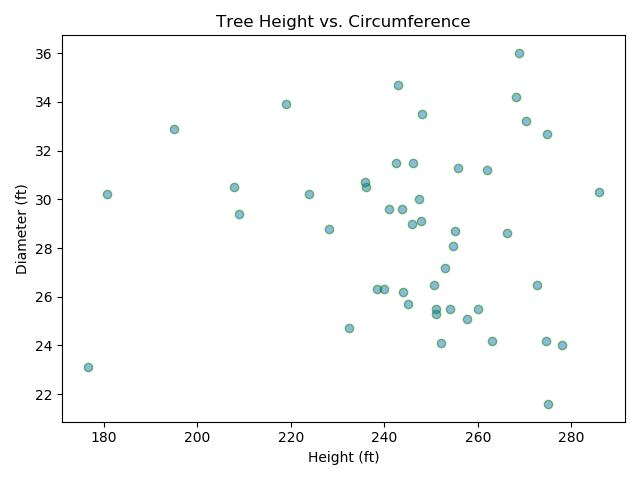
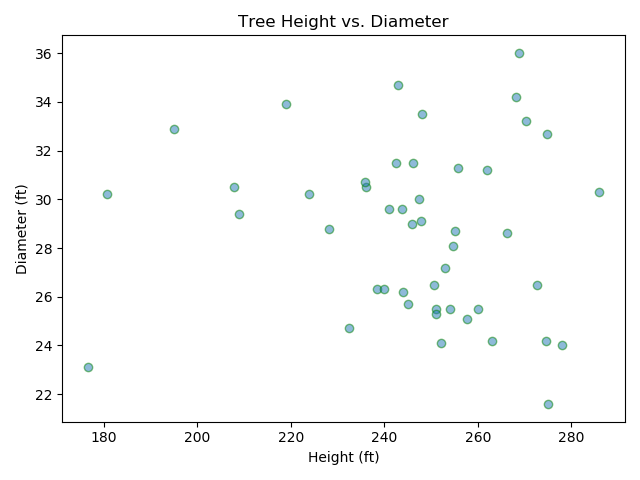
Fixed Tree Plots

Changed region(s): [[0.3438, 0.0312, 0.75, 0.0625]]

diff --git a/Scatter Plots/tallest_trees.py b/Scatter Plots/tallest_trees.py
@@ -46,7 +46,7 @@ for attribute in [('Circumference', 'ft'), ('Diameter', 'ft'), ('BoleVolume', 'c
     fig, ax = plt.subplots(1, 1)
     plt.scatter(df['Height'], df[attribute[0]], cmap='plasma', edgecolor='green',
                 linewidth=1, alpha=0.5)
-    ax.set_title('Tree Height vs. Circumference')
+    ax.set_title(f'Tree Height vs. {attribute[0]}')
     ax.set_ylabel(f'{attribute[0]} ({attribute[1]})')
     ax.set_xlabel('Height (ft)')
     pyplot.locator_params(axis='y', nbins=10)
